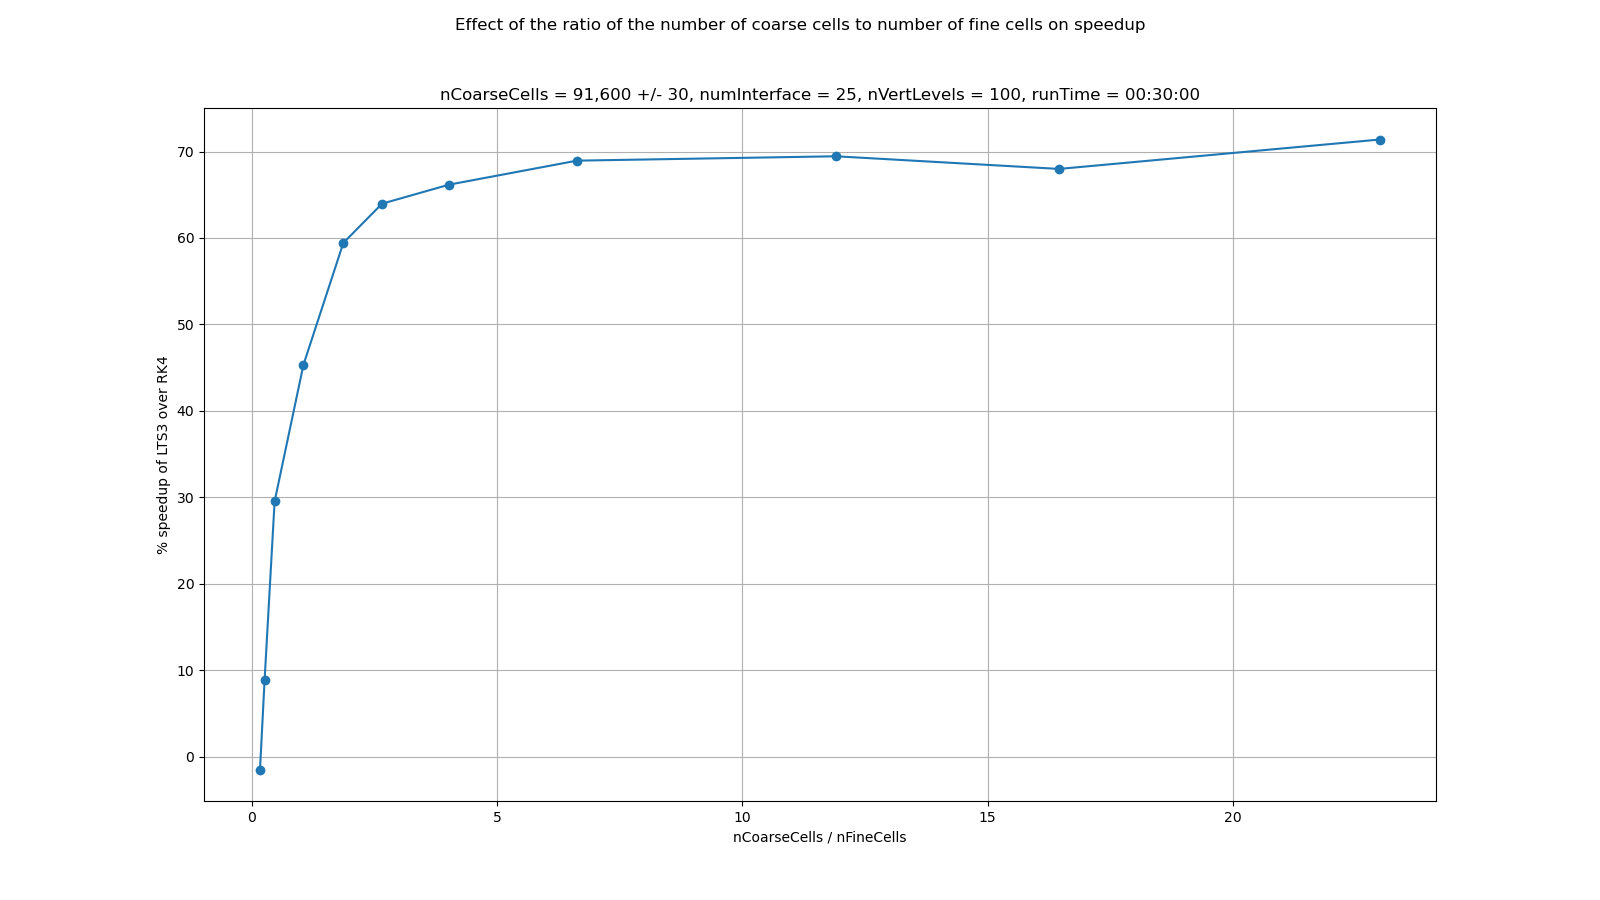
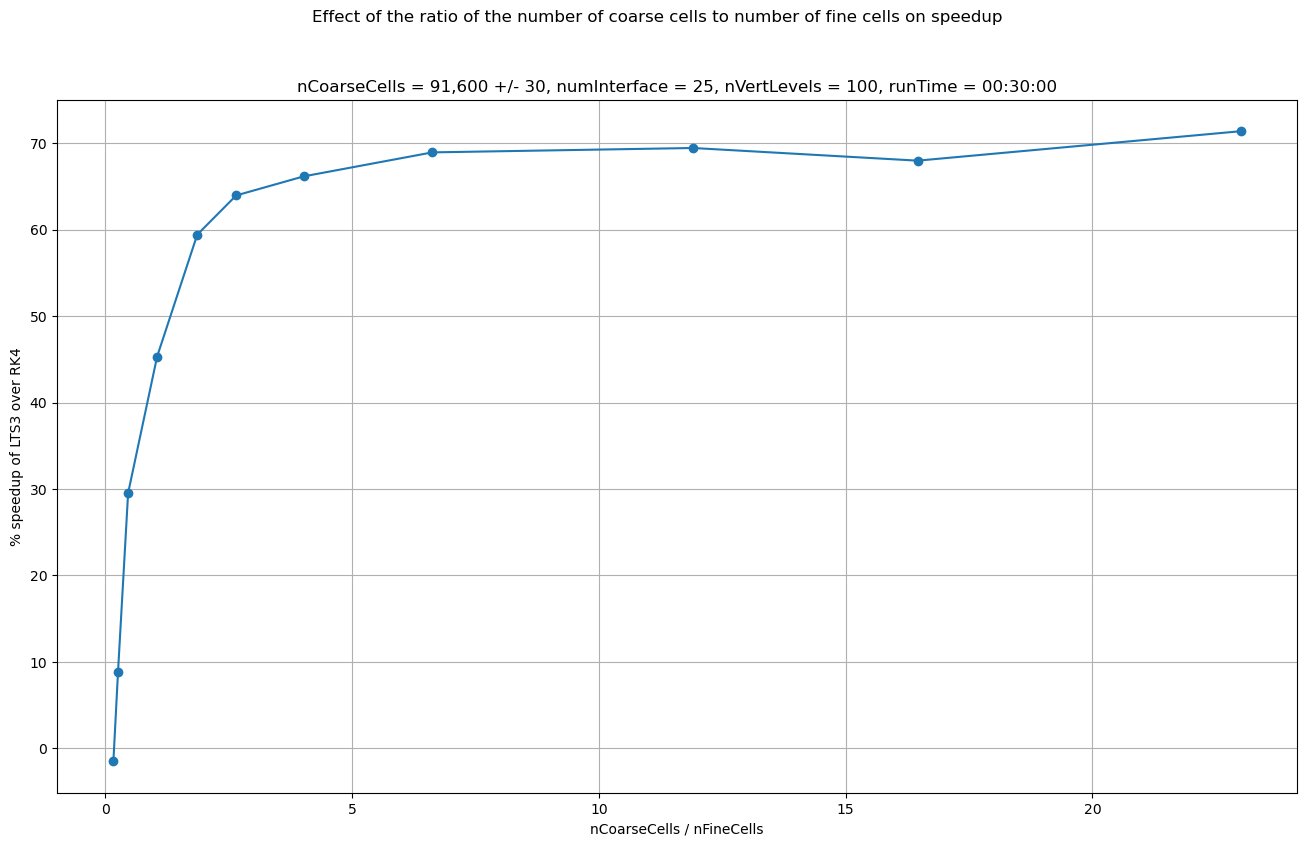
Update plot generation scripts with bbox_inches='tight'

diff --git a/scripts/make_countRatio_plot.py b/scripts/make_countRatio_plot.py
@@ -70,8 +70,8 @@ def main():
                            speedup,
                            nFine]).transpose()
     
-    pltFig, pltAx = plt.subplots(1, 1)
-    tblFig, tblAx = plt.subplots(1, 1)
+    pltFig, pltAx = plt.subplots(1, 1, figsize=(16, 9))
+    tblFig, tblAx = plt.subplots(1, 1, figsize=(16, 9))
     
     figSupTitle = 'Effect of the ratio of the number of coarse cells to number of fine cells on speedup'
     figTitle = 'nCoarseCells = 91,600 +/- 30, numInterface = 25, nVertLevels = 100, runTime = 00:30:00'
@@ -89,19 +89,12 @@ def main():
                                                  '% speedup',
                                                  'nFineCells'])
     table = tblAx.table(cellText=dataFrame.values, colLabels=dataFrame.columns, loc='center')
-    table.scale(1, 1.5)
+    table.scale(1, 2)
     tblAx.set(title=figTitle)
     tblFig.suptitle(figSupTitle)
 
-    pltFig.set_size_inches(16, 9)
-    tblFig.set_size_inches(16, 9)
-
-    ratio = 9 / 16
-    pltAx.set_aspect(1.0 / pltAx.get_data_ratio() * ratio)
-    tblAx.set_aspect(1.0 / tblAx.get_data_ratio() * ratio)
-    
-    pltFig.savefig('countRatio_speedup_plot.png')
-    tblFig.savefig('countRatio_speedup_table.png')
+    pltFig.savefig('countRatio_speedup_plot.png', bbox_inches='tight')
+    tblFig.savefig('countRatio_speedup_table.png', bbox_inches='tight')
     
 # END main()
 

diff --git a/scripts/make_resRatio_plot.py b/scripts/make_resRatio_plot.py
@@ -81,8 +81,8 @@ def main():
                            rk4DT,
                            dtRatio]).transpose()
     
-    pltFig, pltAx = plt.subplots(1, 1)
-    tblFig, tblAx = plt.subplots(1, 1)
+    pltFig, pltAx = plt.subplots(1, 1, figsize=(16, 9))
+    tblFig, tblAx = plt.subplots(1, 1, figsize=(16, 9))
 
     figSupTitle = 'Effect of the ratio of coarse resolution to fine resolution on speedup'
     figTitle = 'coarseRes = 80.0 km, numInterface = 25, nVertLevels = 100, runTime = 00:30:00'
@@ -107,19 +107,12 @@ def main():
     table = tblAx.table(cellText=dataFrame.values,
                         colLabels=dataFrame.columns,
                         loc='center')
-    table.scale(1, 2)
+    table.scale(1, 3)
     tblAx.set(title=figTitle)
     tblFig.suptitle(figSupTitle)
    
-    pltFig.set_size_inches(16, 9)
-    tblFig.set_size_inches(16, 9)
-
-    ratio = 9 / 16
-    pltAx.set_aspect(1.0 / pltAx.get_data_ratio() * ratio)
-    tblAx.set_aspect(1.0 / tblAx.get_data_ratio() * ratio)
-
-    pltFig.savefig('resRatio_speedup_plot.png')
-    tblFig.savefig('resRatio_speedup_table.png')
+    pltFig.savefig('resRatio_speedup_plot.png', bbox_inches='tight')
+    tblFig.savefig('resRatio_speedup_table.png', bbox_inches='tight')
     
 # END main()
 

diff --git a/scripts/make_numInterface_plots.py b/scripts/make_numInterface_plots.py
@@ -57,7 +57,7 @@ def main():
         ax.loglog(procTestsInts, timeIntData[iInterface, :], '-o')
         ax.loglog(procTestsInts, perfectScaling, '--', color='black')
         ax.grid('both')
-        ax.set(title=('numInterfaceLayers = ' + interfaceTest),
+        ax.set(title=('numInterface = ' + interfaceTest),
                xlabel='nProcs',
                ylabel='runtime (s)')
     # END for
@@ -69,7 +69,7 @@ def main():
         scaleFig.delaxes(scaleAxes[-2])
 
     scaleFig.set_tight_layout(True)
-    scaleFig.savefig('numInterface_scaling_plot.png')
+    scaleFig.savefig('numInterface_scaling_plot.png', bbox_inches='tight')
 
 
     # interface runtime plots
@@ -83,7 +83,7 @@ def main():
         ax.plot(interfaceTestsInts, timeIntData[:, iProc], '-o')
         ax.grid('major')
         ax.set(title=('numProcs = ' + procTest),
-               xlabel='numInterfaceLayers',
+               xlabel='numInterface',
                ylabel='runtime (s)')
     # END for
     
@@ -91,7 +91,7 @@ def main():
         runtimeFig.delaxes(runtimeAxes[-1])
     
     runtimeFig.set_tight_layout(True)
-    runtimeFig.savefig('numInterface_runtime_plot.png')
+    runtimeFig.savefig('numInterface_runtime_plot.png', bbox_inches='tight')
 # END main()
 
 

diff --git a/scripts/make_convergenceInM_plot.py b/scripts/make_convergenceInM_plot.py
@@ -57,8 +57,8 @@ def main():
                            coarseDTs,
                            times])
 
-    pltFig, pltAx = plt.subplots(1, 1)
-    tblFig, tblAx = plt.subplots(1, 1)
+    pltFig, pltAx = plt.subplots(1, 1, figsize=(16, 9))
+    tblFig, tblAx = plt.subplots(1, 1, figsize=(16, 9))
    
     for iOp, operator in enumerate(operators):
         refSol = refSolFile.variables[operator][1, :, 0]
@@ -107,19 +107,12 @@ def main():
     tblAx.axis('tight')
     dataFrame = pd.DataFrame(tableData, columns=tblLabels)
     table = tblAx.table(cellText=dataFrame.values, colLabels=dataFrame.columns, loc='center')
-    table.scale(1, 1.5)
+    table.scale(1, 3)
     tblAx.set(title=figTitle)
     tblFig.suptitle(figSupTitle)
 
-    pltFig.set_size_inches(16, 9)
-    tblFig.set_size_inches(16, 9)
-
-    ratio = 9 / 16
-    pltAx.set_aspect(1.0 / pltAx.get_data_ratio() * ratio)
-    tblAx.set_aspect(1.0 / tblAx.get_data_ratio() * ratio)
-
-    pltFig.savefig('convergenceInM_plot.png')
-    tblFig.savefig('convergenceInM_table.png')
+    pltFig.savefig('convergenceInM_plot.png', bbox_inches='tight')
+    tblFig.savefig('convergenceInM_table.png', bbox_inches='tight')
 
 # END main()
 
